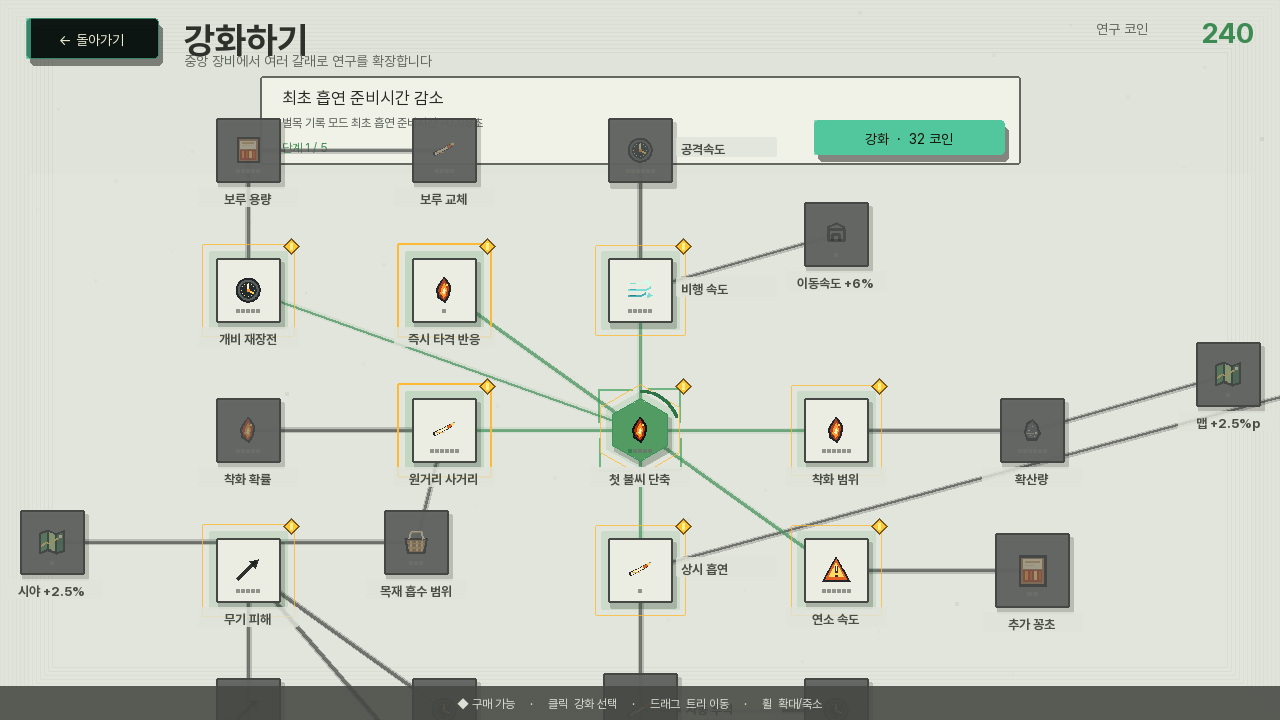
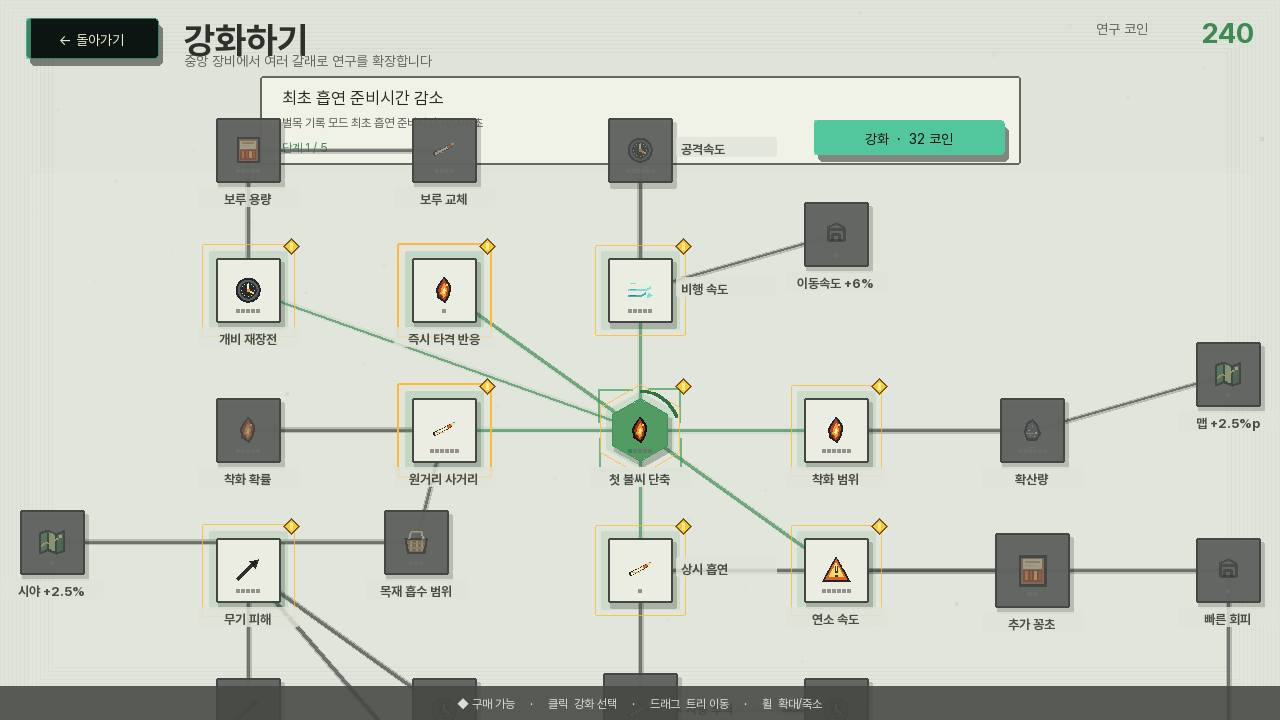
대시 거리 후속 연구 추가

diff --git a/docs/character_dossier.html b/docs/character_dossier.html
@@ -506,6 +506,7 @@ const TRAITS = {
       {id:"fire_redsky",name:"하늘이 붉은 건 노을",short:"최종 산불",desc:"착화 범위 +42",max:1,costs:[190],requires:[["fire_claim",1]],capstone:true},
       {id:"fire_score_prewarm",name:"최초 흡연 준비시간 감소",short:"첫 불씨 단축",desc:"벌목 기록 모드 최초 흡연 준비시간 -0.08초",max:5,costs:[18,32,50,74,104]},
       {id:"fire_score_dash_unlock",name:"대시 해금",short:"빠른 회피",desc:"구매하면 이동 중 짧은 대시를 사용할 수 있습니다.",max:1,costs:[30],requires:[["fire_score_alwayssmoke",1]]},
+      {id:"fire_score_dash_distance",name:"대시 거리 상승",short:"대시 거리 +130",desc:"대시 이동거리가 130 증가합니다. 기본 이동거리는 190입니다.",max:1,costs:[180],requires:[["fire_score_dash_unlock",1],["fire_score_rocket_unlock",1]]},
       {id:"fire_score_impact",name:"꽁초 즉시 타격 반응",short:"즉시 타격 반응",desc:"꽁초 착지 즉시 최근접 대상 1개를 점화하고 짧은 정지·반동·전용 타격음을 적용합니다.",max:1,costs:[32],requires:[["fire_score_prewarm",1]]},
       {id:"fire_score_alwayssmoke",name:"상시 흡연",short:"상시 흡연",desc:"근접 도끼질이나 폭죽 공격 중에도 담배 재장전이 계속됩니다.",max:1,costs:[70],requires:[["fire_score_prewarm",1]]},
       {id:"fire_score_filter",name:"원거리 무기 사거리 상승",short:"원거리 사거리",desc:"원거리 무기 사거리 +16",max:6,costs:[18,32,50,74,104,142],requires:[["fire_score_prewarm",1]]},

diff --git a/docs/SYSTEM_MAP.md b/docs/SYSTEM_MAP.md
@@ -96,7 +96,8 @@
 | 코인 | 노드 | 효과 |
 |---:|---|---|
 | — | (기본) | 근접 대상을 클릭하면 도끼, 그 외에는 담배가 자동 선택된다. 도끼질 중에는 담배 재장전이 멈춘다. |
-| 18+70+30 | 대시 해금 | 상시 흡연 바로 옆에서 이어지는 초반 이동 노드. 구매 전에는 SPACE 안내가 나타나지 않으며, 구매 후 SPACE로 이동 방향 대시를 사용한다. |
+| 18+70+30 | 대시 해금 | 상시 흡연 바로 옆에서 이어지는 초반 이동 노드. 구매 전에는 SPACE 안내가 나타나지 않으며, 구매 후 SPACE로 이동 방향 190만큼 대시한다. |
+| +180 | 대시 거리 상승 | 대시와 폭죽을 모두 연 뒤 약 5단계 지점에서 열린다. 이동거리 +130, 최종 320. |
 | 18+32 | 꽁초 즉시 타격 반응 | 루트 1단계 뒤 열리는 초반 노드. 착지 즉시 최근접 대상 1개 점화 + 0.03초 정지·반동·전용 타격음. 첫 2~3판 목표. |
 | 70 | 상시 흡연 | 루트 바로 다음 두 번째 노드. 도끼질이나 폭죽 공격 중에도 담배 재장전이 흐르며, 도끼 자세의 입 앵커에 담배와 연기가 표시된다. |
 | 240 | 담배 자동 투척 | 2.6초마다 알아서 날아간다. 수동 주기(약 2.2초)보다 느린 대신 손이 빈다. |
@@ -326,7 +327,7 @@
 
 | 갈래 | 노드 | 레벨 | 코인 |
 |---|---:|---:|---:|
-| 담배 | 17 | 73 | 5,562 |
+| 담배 | 18 | 74 | 5,742 |
 | 폭죽 | 10 | 29 | 3,682 |
 | 도끼 | 9 | 29 | 4,432 |
 | 기름통 | 12 | 45 | 8,168 |
@@ -337,7 +338,7 @@
 | 운영 | 3 | 8 | 7,680 |
 | 로봇 | 2 | 6 | 354 |
 | 공간·이동 *(각 단계 분산)* | 15 | 15 | 1,920 |
-| **합계** | **112** | **280** | **38,969** |
+| **합계** | **113** | **281** | **39,149** |
 
 ### 루트 노드 — 첫 판에 갈 수 있는 곳
 

diff --git a/docs/SMOKER_SCORE_ATTACK_MODE.md b/docs/SMOKER_SCORE_ATTACK_MODE.md
@@ -67,6 +67,7 @@ HP 계산은 정수 반올림을 사용한다. 따라서 낮은 단계에서는 
 | 확산 | 불붙은 나무의 확산량, 연소 속도 | 담배 |
 | 조작 | 최초 흡연 준비시간 | 담배 |
 | 최종 | 투척 시 추가 꽁초 1개 | 담배 |
+| 이동 | 대시 해금, 5단계 대시 거리 상승(190→320) | 작업자 |
 | 도끼 | 타격 범위, 공격속도, 동시 타격 나무, 밑동 절단 확률 | 도끼 |
 | 폭죽 | 폭발 반경, 폭발 피해, 비행 속도, 착탄 점화 확률, 발사 속도 | 폭죽 |
 
